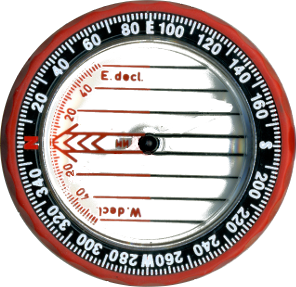
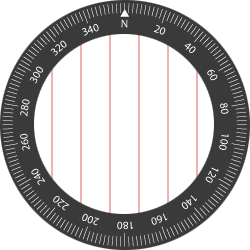
Added graphics.

diff --git a/src/compass/qml/Ui.qml b/src/compass/qml/Ui.qml
@@ -16,6 +16,13 @@ Rectangle {
         ui.northdeg = -azimuth
     }
 
+
+    Component.onCompleted: {
+
+        // Used to debug software remove THIS!!!!!!!!
+        //ui.state = "NavigationMode"
+    }
+
     function scaleChanged(scale) {
         if(ui.state != "MapMode") {
             return
@@ -127,6 +134,8 @@ Rectangle {
     }
 
 
+
+
     Button {
         id: toggleButton
 
@@ -197,7 +206,7 @@ Rectangle {
         State {
             name: "MapMode"
             PropertyChanges { target: map; opacity: 1.0; rotation: 0 }
-            PropertyChanges { target: compass; width: 260; height: 0.45625 * width; rotable: true; movable: true }
+            PropertyChanges { target: compass; width: 260; height: 0.453125 * width; rotable: true; movable: true }
             PropertyChanges { target: calibrationView; opacity: 0 }
             PropertyChanges { target: toggleButton; opacity: 1 }
             PropertyChanges { target: settingsButton; opacity: 1 }
@@ -205,8 +214,8 @@ Rectangle {
         },
         State {
             name: "NavigationMode"
-            PropertyChanges { target: map; opacity: 0.5; rotation: -compass.rotationOnMap }
-            PropertyChanges { target: compass; rotation: 0; x: 0; y: 34; width: 640; height: 292; rotable: false; movable: false }
+            PropertyChanges { target: map; opacity: 1.0; rotation: -compass.rotationOnMap }
+            PropertyChanges { target: compass; rotation: 0; x: 0; y: 34; width: 640; height: 290; rotable: false; movable: false }
             PropertyChanges { target: calibrationView; opacity: 0 }
             PropertyChanges { target: toggleButton; opacity: 1 }
             PropertyChanges { target: settingsButton; opacity: 0 }

diff --git a/src/compass/qml/Compass.qml b/src/compass/qml/Compass.qml
@@ -8,7 +8,7 @@ Image {
 
     y: 34
     width: 640; height: 292
-    source: "images/Walkers_compass_transparent.png"
+    source: "images/compassplate.png"
     fillMode: Image.PreserveAspectFit
     smooth: true
 
@@ -62,11 +62,23 @@ Image {
     }
 
     Image {
+        id: shadow
+
+        anchors {
+            fill: scale
+            margins: parent.width * -0.013
+        }
+
+        source: "images/scaleshadow.png"
+    }
+
+    Image {
         id: scale
 
         anchors {
-            right: parent.right; rightMargin: parent.width * 0.157
-            top: parent.top; bottom: parent.bottom
+            right: parent.right; rightMargin: parent.width * 0.18
+            top: parent.top; topMargin: parent.height * 0.06
+            bottom: parent.bottom; bottomMargin: parent.height * 0.06
         }
 
         width: height
@@ -90,7 +102,7 @@ Image {
             onDoubleClicked: RotationAnimation {
                 target: scale
                 property: "rotation"
-                to: -compass.rotation + 90
+                to: -compass.rotation
                 duration: 250
                 direction: RotationAnimation.Shortest
             }
@@ -115,7 +127,7 @@ Image {
 
         anchors.centerIn: scale
         height: scale.paintedHeight * 0.63
-        width: height * 0.209
+        width: height * 0.1214
 
         source: "images/compassneedle.png"
         smooth: true
@@ -123,7 +135,7 @@ Image {
         rotation: ui.northdeg - compass.rotation
         Behavior on rotation {
             RotationAnimation {
-                duration: 250
+                duration: 100
                 direction: RotationAnimation.Shortest
             }
         }

diff --git a/src/compass/qml/CalibrationView.qml b/src/compass/qml/CalibrationView.qml
@@ -12,10 +12,22 @@ Rectangle {
 
     onCalibrationLevelChanged: {
         if(calibrationLevel >= 1.0) {
-           calibrationCompletedAnimation.start()
+            calibrationCompletedAnimation.start()
         }
     }
 
+
+    Image {
+        id: shadow
+
+        anchors {
+            fill: scale
+            margins: parent.width * -0.013
+        }
+
+        source: "images/scaleshadow.png"
+        smooth: true
+    }
 
     Image {
         id: scale
@@ -28,13 +40,16 @@ Rectangle {
     }
 
     Image {
-        anchors.centerIn: scale
+        id: needle
 
-        width: height * 0.209; height: scale.paintedHeight * 0.63
+        anchors.centerIn: scale
+        width: height * 0.1214; height: scale.paintedHeight * 0.63
         source: "images/compassneedle.png"
         rotation: calibrationLevel * 360
 
         Behavior on rotation { PropertyAnimation { duration: 1000 } }
+
+        smooth: true
     }
 
     Arc {
@@ -112,7 +127,9 @@ Rectangle {
         }
 
         ScriptAction {
-            script: view.calibrated()
+            script: {
+                view.calibrated()
+            }
         }
     }
 }

diff --git a/src/compass/arc.h b/src/compass/arc.h
@@ -35,12 +35,6 @@ public:
         }
 
         painter->drawArc(0, 0, width(), height(), m_startAngle, m_spanAngle);
-
-
-        pen.setColor(QColor(50,50,50));
-        pen.setWidth(1);
-        painter->setPen(pen);
-        painter->drawRect(boundingRect());
     }
 
 
